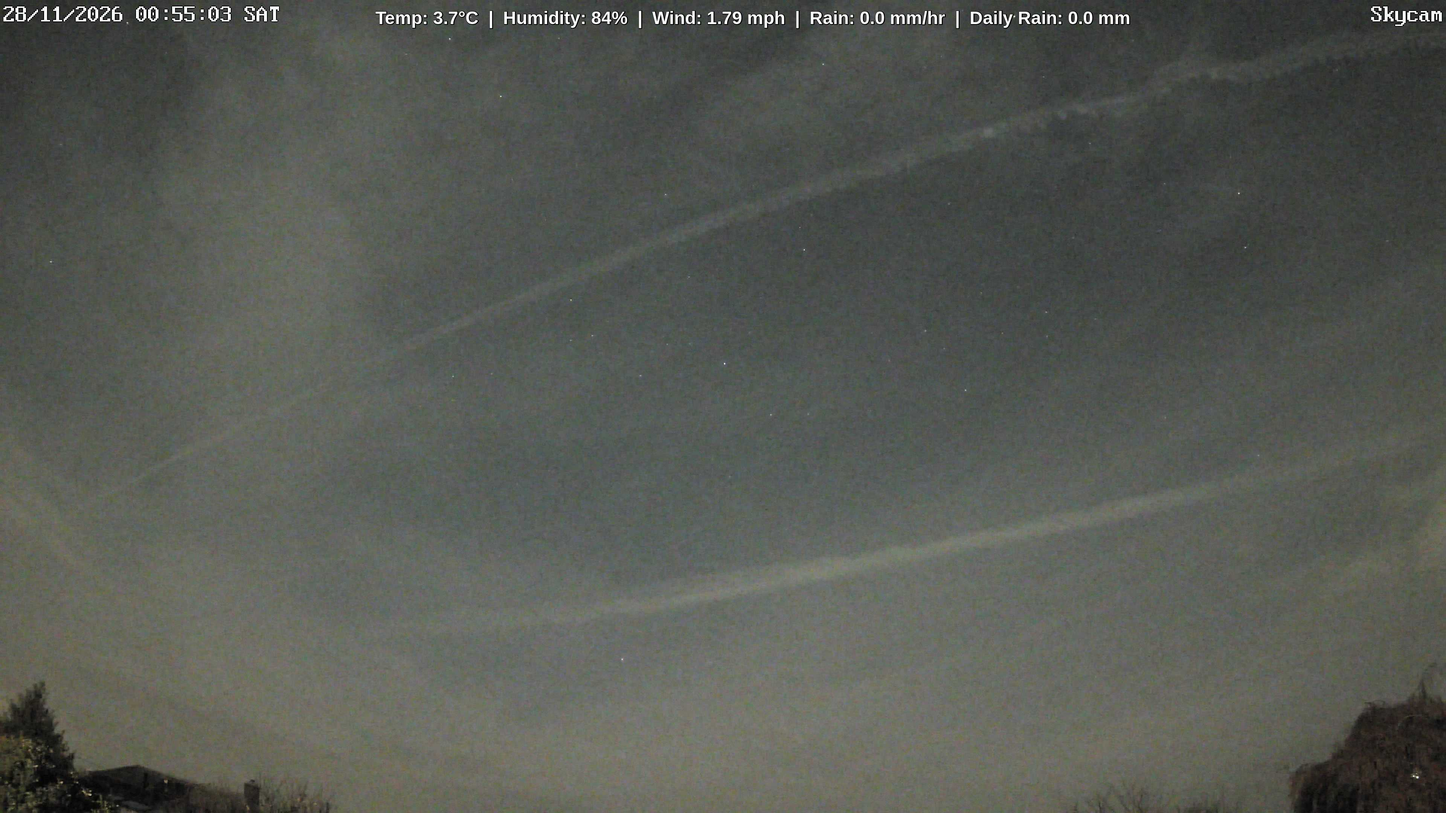
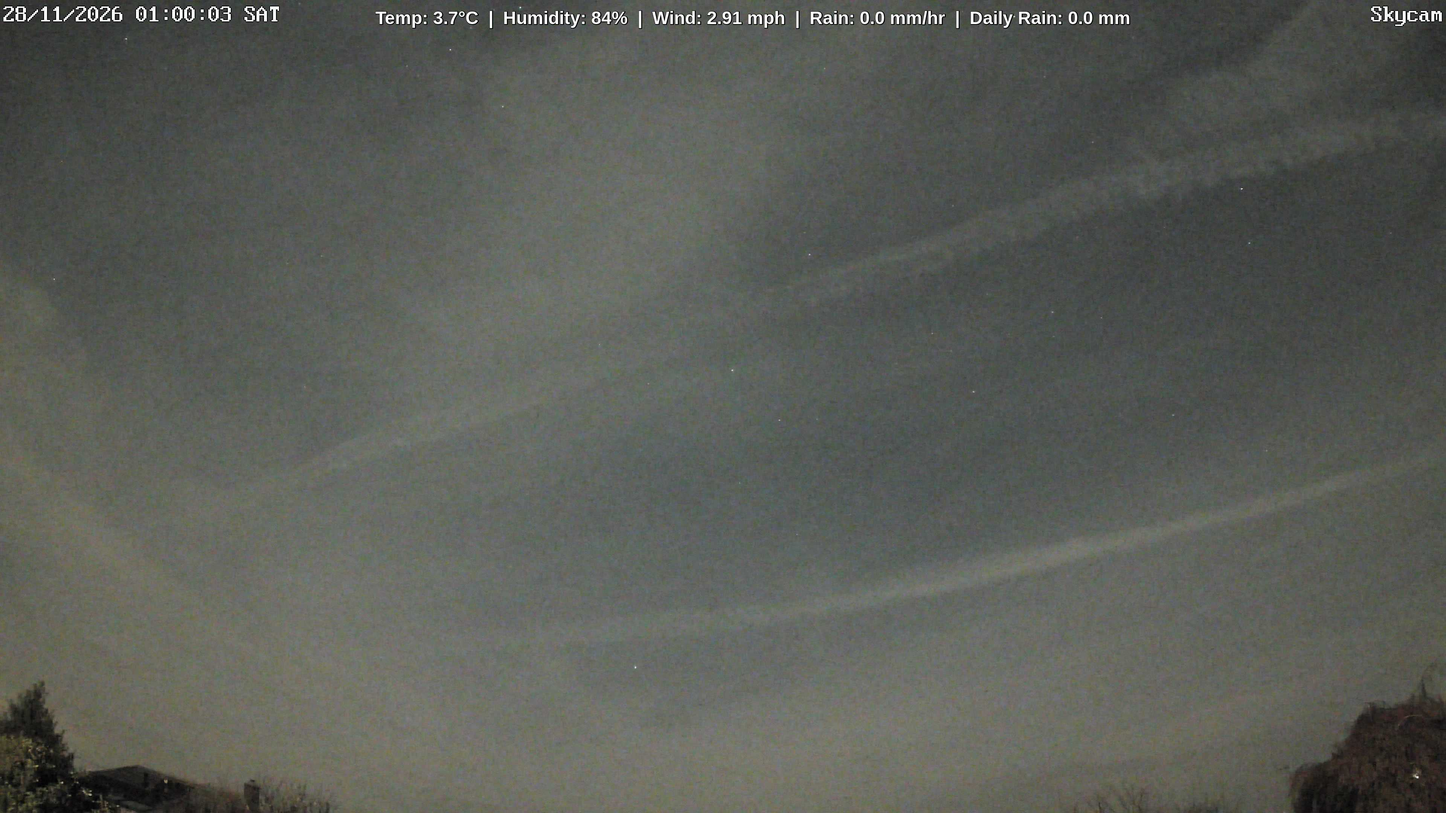
Update weather cam image with synchronized dual-layer weather metrics

diff --git a/index.html b/index.html
@@ -32,7 +32,7 @@
 </head>
 <body>
     <img id="weathercam" alt="Live Weather Snapshot">
-    <div class="banner">Temp: 3.7°C  |  Humidity: 84%  |  Wind: 1.79 mph  |  Rain: 0.0 mm/hr  |  Daily Rain: 0.0 mm</div>
+    <div class="banner">Temp: 3.7°C  |  Humidity: 84%  |  Wind: 2.91 mph  |  Rain: 0.0 mm/hr  |  Daily Rain: 0.0 mm</div>
 
     <script>
         // Shatter mobile cache engines by appending a live unique runtime timestamp 
